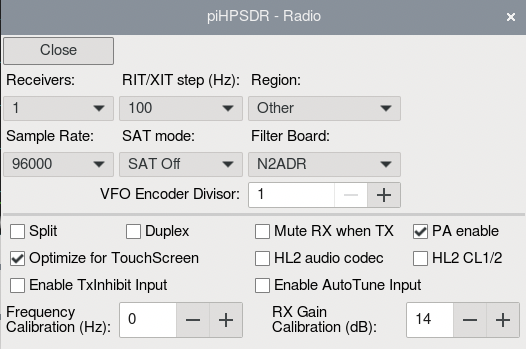
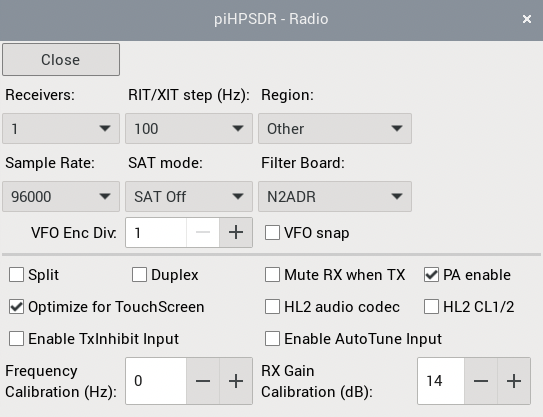
Update of the Manual

diff --git a/release/LatexManual/piHPSDR-Manual.tex b/release/LatexManual/piHPSDR-Manual.tex
@@ -152,9 +152,9 @@ convention as laid out here.
 Here we list the main new featured introduced in each version.
 
 \medskip
-\textbf{\pH Version 2.5, under development}
+\textbf{\pH Version 2.5, release planned for Sep. 2025}
 \begin{itemize}
-\item{First complete version of the Client/Server model (including the transmitter).
+\item{First complete version of the Client/Server model (including TX and CW).
 Server access is password protected.}
 \item{Better HermesLite-II and RadioBerry support.}
 \item{When both a scope and a waterfall is running for a receiver, the (relative) height of
@@ -163,6 +163,7 @@ the waterfall is user-adjustable.}
 capability if compiled on MacOS.}
 \item{Better support for LIME-SDR (2RX) and LIME-mini (1RX) radios.}
 \item{Option to have an SWR-dependent side tone while TUNE-ing.}
+\item{ZOOM now up to 32x.}
 \end{itemize}
 
 \medskip
@@ -504,10 +505,47 @@ by VFO-A. VFO-B then actually only controls controls the transmitter
 if using split mode, but the data stored in VFO-B can
 be quickly used, for example by copying VFO-B to VFO-A (the
 \bltt{A<B} command), or by swapping the two VFOs (the \bltt{A<>B} command).
+This Figure has been recorded (just to demonstrate this)
+on an Apple Macintosh, therefore, among other details, the
+top bar of the window looks a little different from what one sees
+on LINUX (see e.g. Fig. \ref{fig:zoom}).
+%%%%%%%%%%%%%%%%%%%%%%%%%%%%%%%%%%%%%%%%%%%%%%%%%%%%%%%%%%%%%%%%%%%%%%%%%%%%%%%%%%%%%%%%%%%%%%%%%%%%%%%%%%%%
+\section{What is a spectrum?}
+Some people get confused if the spectrum shows a noise floor at $-122$ dBm, while their S-meter
+reading ,,without signal'' is $-109$ dBm. These people then often ask which of the two figures tells
+them how much noise there is.
 
+It is important to note that a spectrum plots an energy \textit{density}, that is an energy (in dBm) 
+per frequency interval. The RX panadapters in \pH normalise the spectrum to a frequency interval
+that is the frequency width of one pixel on the screen. An immediate consequence of this is, that the
+noise floor moves down when increasing the ZOOM value, since the frequency width of one pixel gets
+smaller. Another option would be to normalise the spectrum to one Hz, that is, to display the
+energy within an interval one Hz wide. While it would be easy to do so, the noise floor is then
+much lower of what one is used from other SDR programs and I wanted to avoid a new source of
+confusion.
+
+The S-meter reading, on the other hand, integrates the spectral energy density over the filter
+passband. For example, if your spectrum is 96 kHz wide but displayed in a window 800 pixels wide,
+then the width of one pixel is 120 Hz. If the spectrum shows a noise floor at -122 dBm, this means
+the energy density of the noise is $-122$ dBm per 120 Hz. The S-meter reading for a filter
+2400 Hz wide is then $-109$ dBm which is twenty times more energy than $-122$ dBm. Switching to
+a filter 5000 Hz wide increases the S-meter reading  to $-106$ dBm (a factor of two
+ is 3 dB).
+
+If you want to measure the noise floor and report or compare the result,
+the best you can do is to get an S-meter reading (in dBm) with
+a filter that is 1000 Hz wide, and then subtract 30 from the S-meter value to
+produce a noise floor figure in dBm/Hz.
 %%%%%%%%%%%%%%%%%%%%%%%%%%%%%%%%%%%%%%%%%%%%%%%%%%%%%%%%%%%%%%%%%%%%%%%%%%%%%%%%%%%%%%%%%%%%%%%%%%%%%%%%%%%%
 \section{Spectrum scope options}
 \label{sec:FillingGradient}
+
+\begin{figure}[ht]
+\center
+\includegraphics[scale=0.40]{ScopeFilling.png}
+\caption{Display options for the spectrum scope.}
+\label{fig:scopeoptions}
+\end{figure}
 
 You have already seen two different spectrum scopes: in the first
 picture, the  spectrum was a filled green area, while in the last
@@ -517,15 +555,9 @@ personal preference in the \bltt{Display} menu (see below). There
 are two options which you can enable or disable, such that there
 are four different outcomes. The first option is the ,,Filled'' option
 which discriminates between a line spectrum and a spectrum which is
-filled below the line. In the picture below, the first and third
+filled below the line. In Fig. \ref{fig:scopeoptions}, the first and third
 example have no filling, while the second and fourth spectrum
-are filled:
-
-\begin{figure}[ht]
-\center
-\includegraphics[scale=0.40]{ScopeFilling.png}
-\caption{Display options for the spectrum scope.}
-\end{figure}
+are filled.
 
 Then there is the ,,Gradient'' option. Without this option, the
 spectrum is displayed in white colour. With the gradient option,
@@ -542,11 +574,12 @@ is no gradient option.
 \section{Zoom and Pan}
 \label{sec:ZoomPanArea}
 
-\begin{figure}[ht]
+\begin{figure}[ht!]
 \center
 \includegraphics[scale=0.45]{ZoomPan.png}
 \caption{The spectrum scope of Fig. \ref{fig:SingleReceiver} with a
 large Zoom value.}
+\label{fig:zoom}
 \end{figure}
 
 The width of the RX spectrum equals the sample rate
@@ -557,27 +590,26 @@ of the spectrum than you are interested in. As a drawback,
 the part which is relevant to you may look a little bit
 compressed. This is where the \bltt{Zoom} command
 comes in. The zoom value can adopt integral values between
-1 (no zoom) and 8. In the latter case, only 1/8 of the
+1 (no zoom) and 32. In the latter case, only 1/32 of the
 overall spectrum is displayed on the screen. In the
 picture below, you see that the RX scope is only 12 kHz
-wide (which is 1/8 of the RX sample rate, 96 kHz in our
+wide (which is 1/8 of the RX sample rate, 1/8 of 96 kHz in our
 example). Note that what is displayed is in full resolution.
 Internally, a spectrum with 8 times the number of pixels
 of the screen width is created and only a part of it is
 displayed. The zoom value can be changed using the \rett{Zoom}
 slider (at the left edge below the RX panel).
 
-
-When using a zoom value larger than one, this means that
-a spectrum with more pixels than the actual screen width
-is produced. One can select which part of that area
-is displayed on the screen with the \rett{Pan} slider
-(below the RX panel at the right side). Normally (Zoom=1),
-the VFO dial frequency is exactly in the middle of the
-RX scope, and marked with a thin red line. On the picture
-above, the dial frequency (14.100 MHz) is found in the RX
-panel close to the left edge, and this has been done
-by moving the \rett{Pan} slider.
+When changing the zoom value, then the pan value is
+automatically adjusted such that the RX frequency
+(the CTUN frequency if CTUN is active) is at the 
+centre of the display. In the example shown, the PAN
+sliders has been manually adjusted such that the signal
+at the RX frequency (14100 kHz) appears close to the left
+edge of the display. In my view, PAN makes little sense
+if not using CTUN. While it is possible to move the PAN
+slider when the zoom factor is unity, this simply has
+no effect.
 
 Note that the TX spectrum scope always has a fixed spectral
 width, namely 24 kHz in non-duplex mode when the TX spectrum
@@ -1276,12 +1308,18 @@ It is possible to change the OC settings in the \bltt{OC} menu, and these settin
 preferences. Upon next program start, however, these preferences will again be overwritten as long
 as the \texttt{N2ADR} filter board is chosen.
 
-\rett{VFO Encoder Divisor:} This option applies to VFO knobs in front panels, GPIO
+\rett{VFO Enc Div:} This option applies to VFO knobs in front panels, GPIO
 or MIDI controllers. In some cases, these encoders generate too many ticks per revolution,
 such that it is difficult to fine tune on a signal.
 If the VFO Encoder Divisor, as shown in the example, has a value of
 15, only every 15$^\textrm{th}$ tick will we processed. For the default value of 1,
 the divisor has no effect.
+
+\rett{VFO snap} If this box is checked, VFO frequency changes by clicking or dragging in the
+RX panadapter are finally rounded to the nearest multiple of the current VFO step size. This
+option is mostly meant for touch-screens which are usually not very accurate. Note that if
+this option is checked, you may not be able to exactly tune on a signal by clicking on
+it with a mouse.
 
 \rett{Split} Use this checkbox to enable/disable Split mode. In Split mode, the frequency of
 the non-active receiver (when using two receivers) or the frequency of VFO-B (when using one
@@ -4186,6 +4224,13 @@ might have guessed that clicking the \rett{Hide} button then conceals the passwo
 label reads \rett{Show} again.
 
 \clearpage
+Note that when the client exits and the connection is closed, the server stops the protocol. The protocol
+is then restarted when a (new) client connects, or when the \rett{Restart} button is pressed on the 
+server side in the main menu. The idea here is that the remote radio is released while it is not used,
+even if the \pH server instance remains running. It should be possible to use the radio from another
+SDR application after the client disconnects, and the remote instance of \pH (server side) can then
+reconnect later if desired.
+
 \textbf{A note on network security:}
 
 The password you enter is \textbf{never ever} transmitted ``as is'' over the line. Instead, the server sends a random
@@ -5188,14 +5233,12 @@ is rarely used but offers Hz-resolution for the direct frequency entry.}
 
 \phcommand{PanZoom}{PAN}{E}{
 {\color{red} This command is connected to the \texttt{Pan} slider in the Zoom/Pan area.}
-Change the Pan value. This control is only effective when the Zoom value is larger
-than 1.}
+Change the Pan value. Note the PAN value has no effect if Zoom equals unity. The PAN value
+goes from 0 (show leftmost part) and 100 (show rightmost part of the spectrum).}
 
-\phcommand{Pan-}{PAN-}{B}{Decrease the PAN value by 100. This control is only effective when the Zoom value is
-larger than 1.}
+\phcommand{Pan-}{PAN-}{B}{Decrease the PAN value.}
 
-\phcommand{Pan+}{PAN+}{B}{Increase the PAN value by 100. This control is only effective when the Zoom value is
-larger than 1.}
+\phcommand{Pan+}{PAN+}{B}{Increase the PAN value.}
 
 \phcommand{Panadapter High}{PANH}{PE}{Change the dBm value (from -60 to +20) at the top of the spectrum scope
 of the active receiver. Values outside
@@ -5479,13 +5522,13 @@ the XIT+ button is released.}
 
 \phcommand{Zoom}{ZOOM}{PE}{
 {\color{red} This command is connected to the \texttt{Zoom} slider in the Zoom/Pan area.}
-Change the ZOOM value (1...8) of the active receiver.}
+Change the ZOOM value (1...32) of the active receiver.}
 
 \phcommand{Zoom -}{ZOOM-}{B}{Decrease the ZOOM value of the active receiver by one. If the ZOOM value was
 already 1, this is a no-op.}
 
 \phcommand{Zoom +}{ZOOM+}{B}{Increase the ZOOM value of the active receiver by one. If the ZOOM value was
-already 8, this is a no-op.}
+already 32, this is a no-op.}
 
 %%%%%%%%%%%%%%%%%%%%%%%%%%%%%%%%%%%%%%%%%%%%%%%%%%%%%%%%%%%%%%%%%%%%%%%%%%%%%%%%%%%%%%%%%%%%%%%%%%%%%%%%%%%%
 %%%%%%%%%%%%%%%%%%%%%%%%%%%%%%%%%%%%%%%%%%%%%%%%%%%%%%%%%%%%%%%%%%%%%%%%%%%%%%%%%%%%%%%%%%%%%%%%%%%%%%%%%%%%
